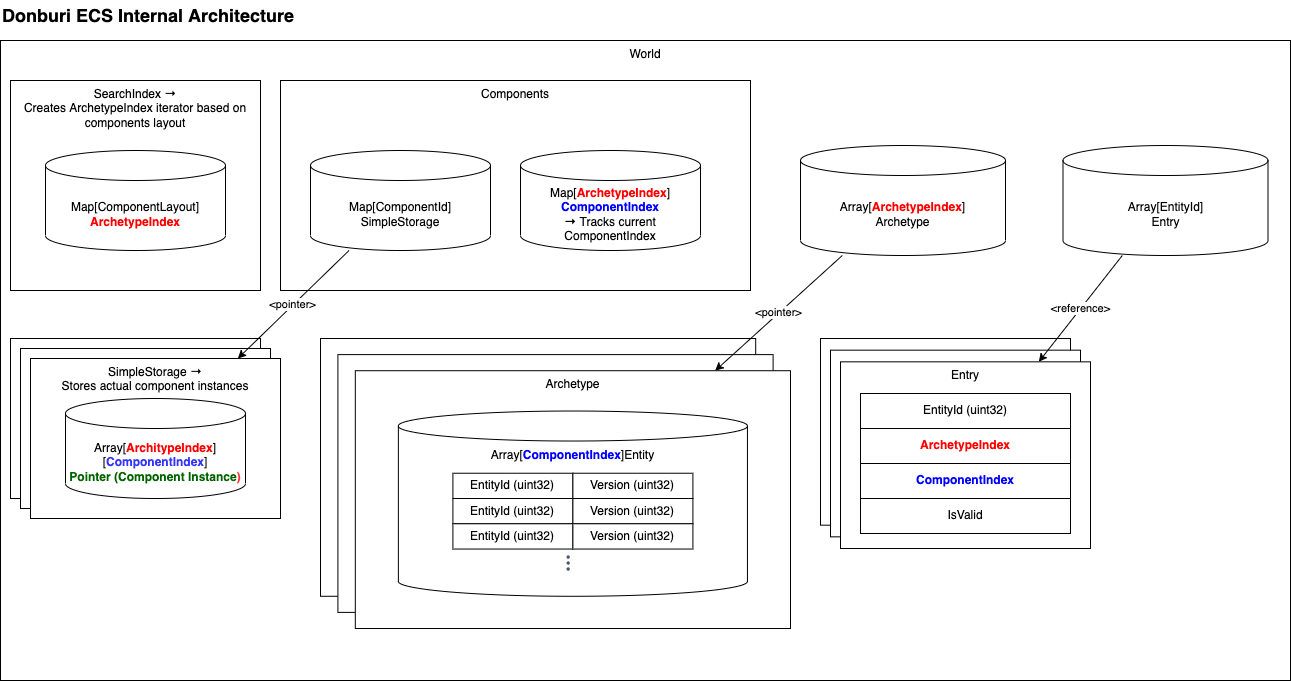
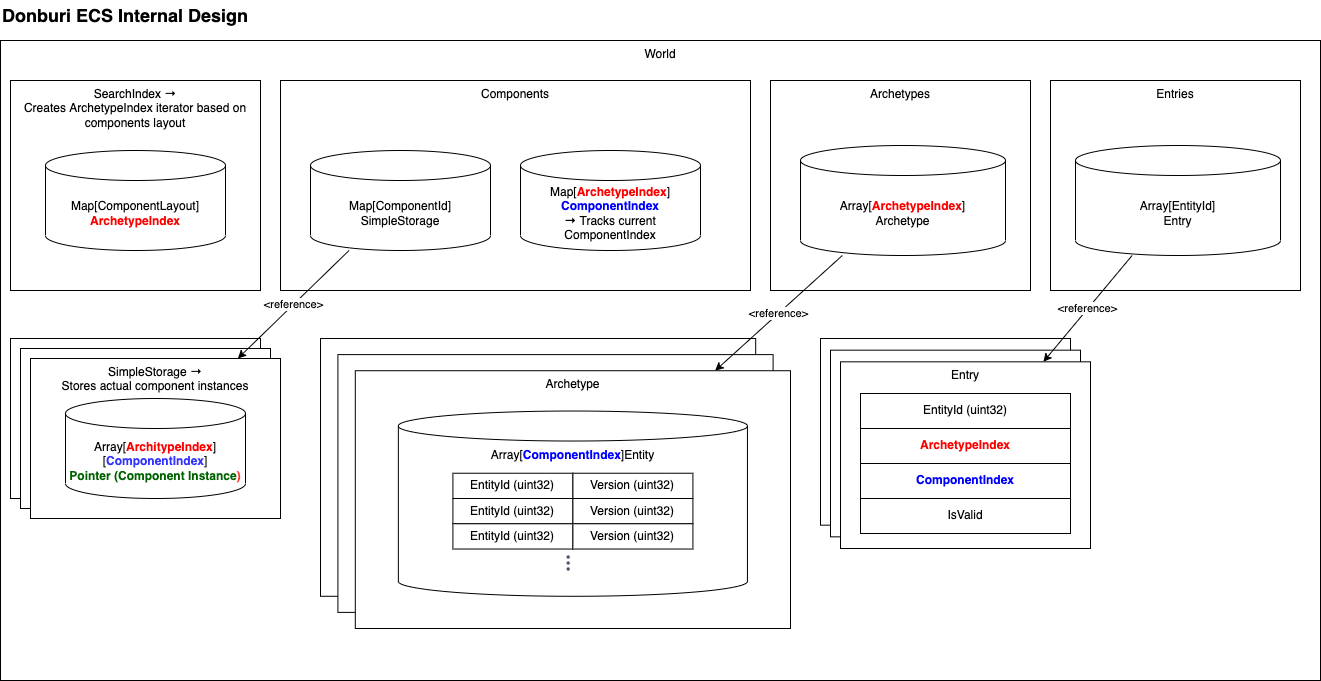
docs: Updated the diagram

diff --git a/README.md b/README.md
@@ -14,7 +14,7 @@ It aims to be a feature rich and high performance [ECS Library](https://en.wikip
     - [Queries](#queries)
     - [Tags](#tags)
     - [Systems](#systems)
-  - [Internal Architecture](#internal-architecture)
+  - [Internal Design](#internal-design)
   - [How to contribute?](#how-to-contribute)
   - [Contributors](#contributors)
 
@@ -180,9 +180,9 @@ query.EachEntity(world, func(entry *donburi.Entry) {
 
 As of today, there is no function for the concept of "Systems" in ECS. It is assumed that operations are performed on entities using queries.
 
-## Internal Architecture
+## Internal Design
 
-The internal architecture is a bit complex, so please refer to the following diagram to understand it.
+It is a bit complex, so please refer to the following diagram to understand it.
 
 ![arch](assets/architecture.png)
 
